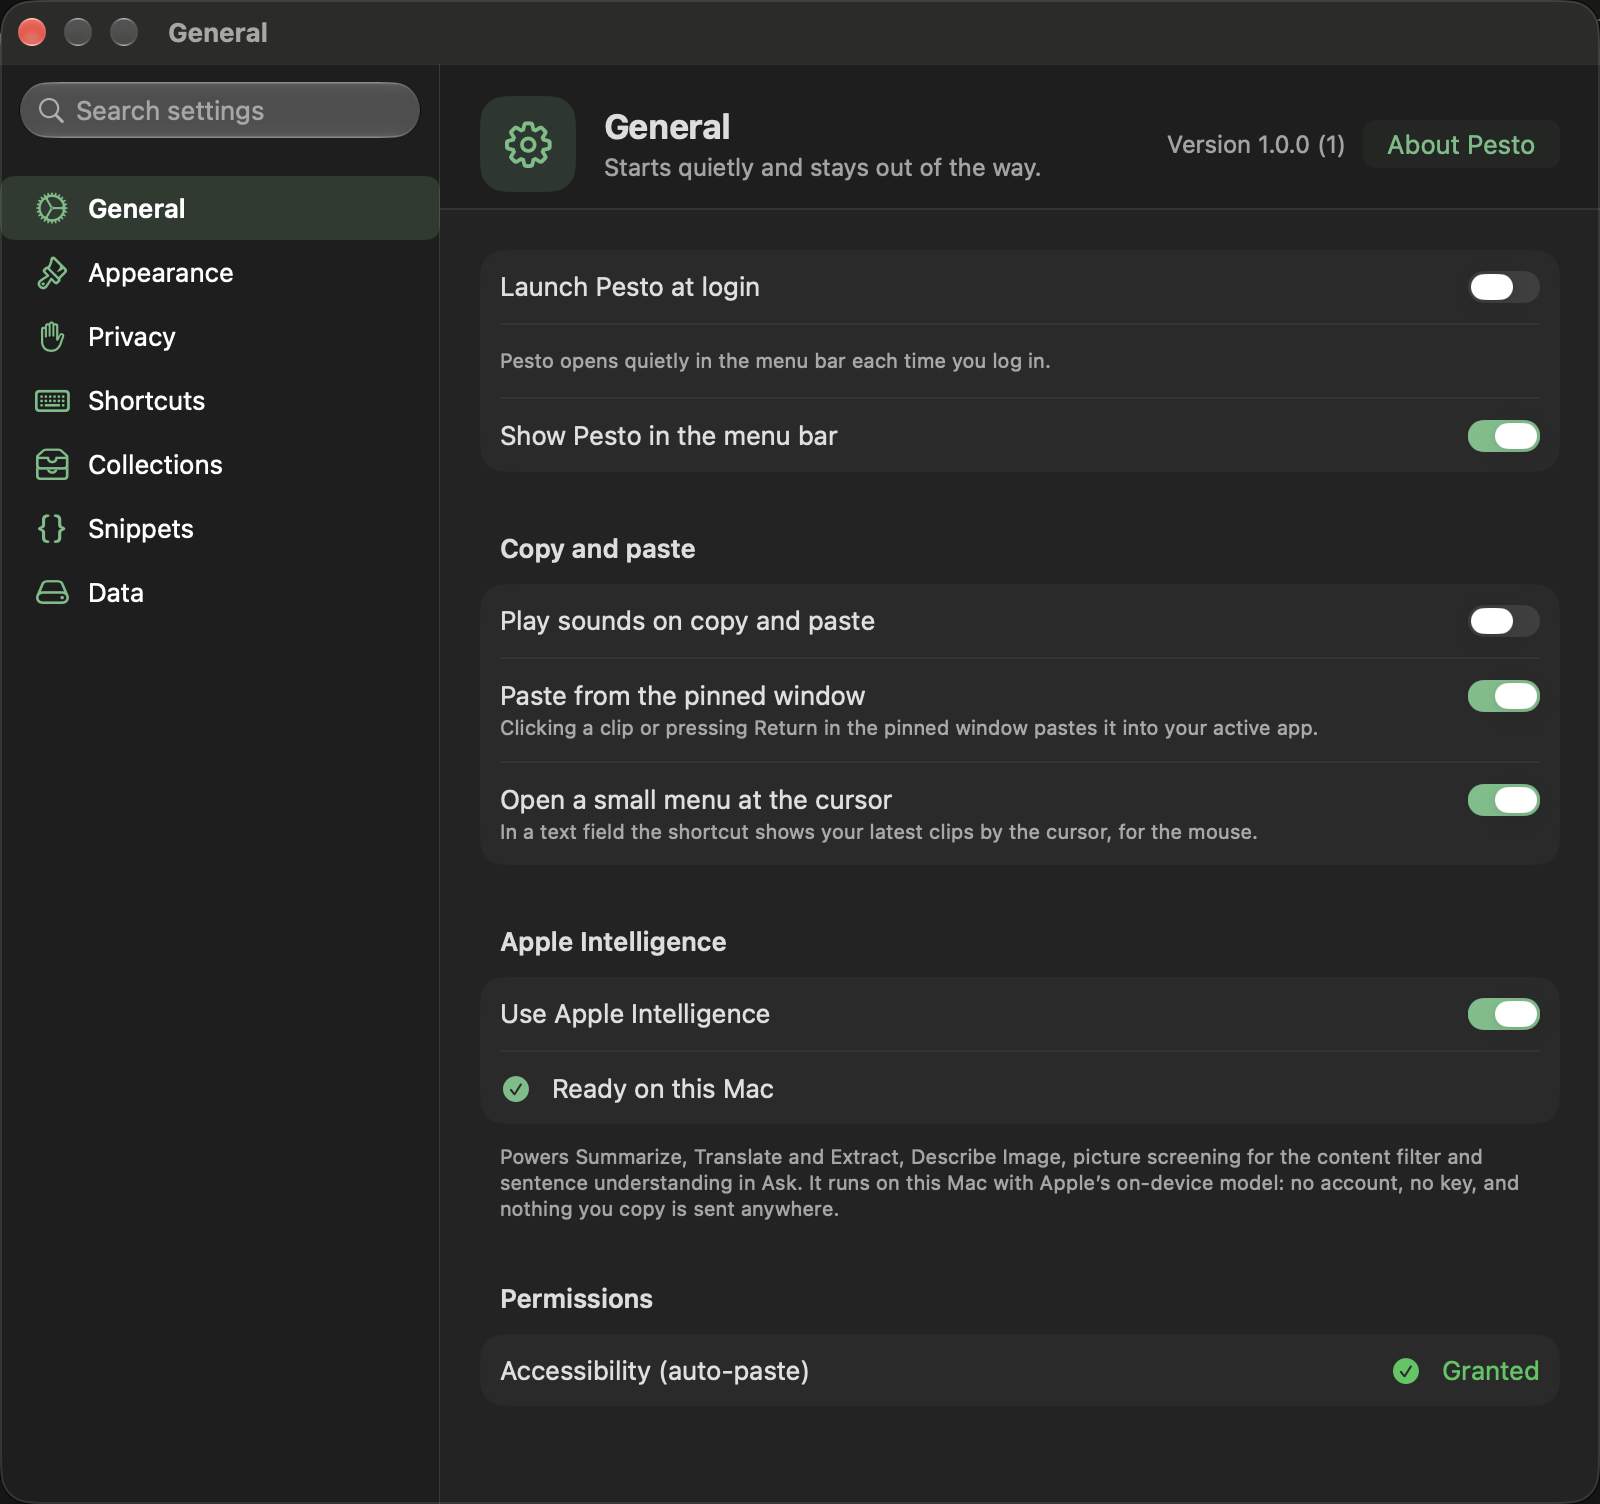
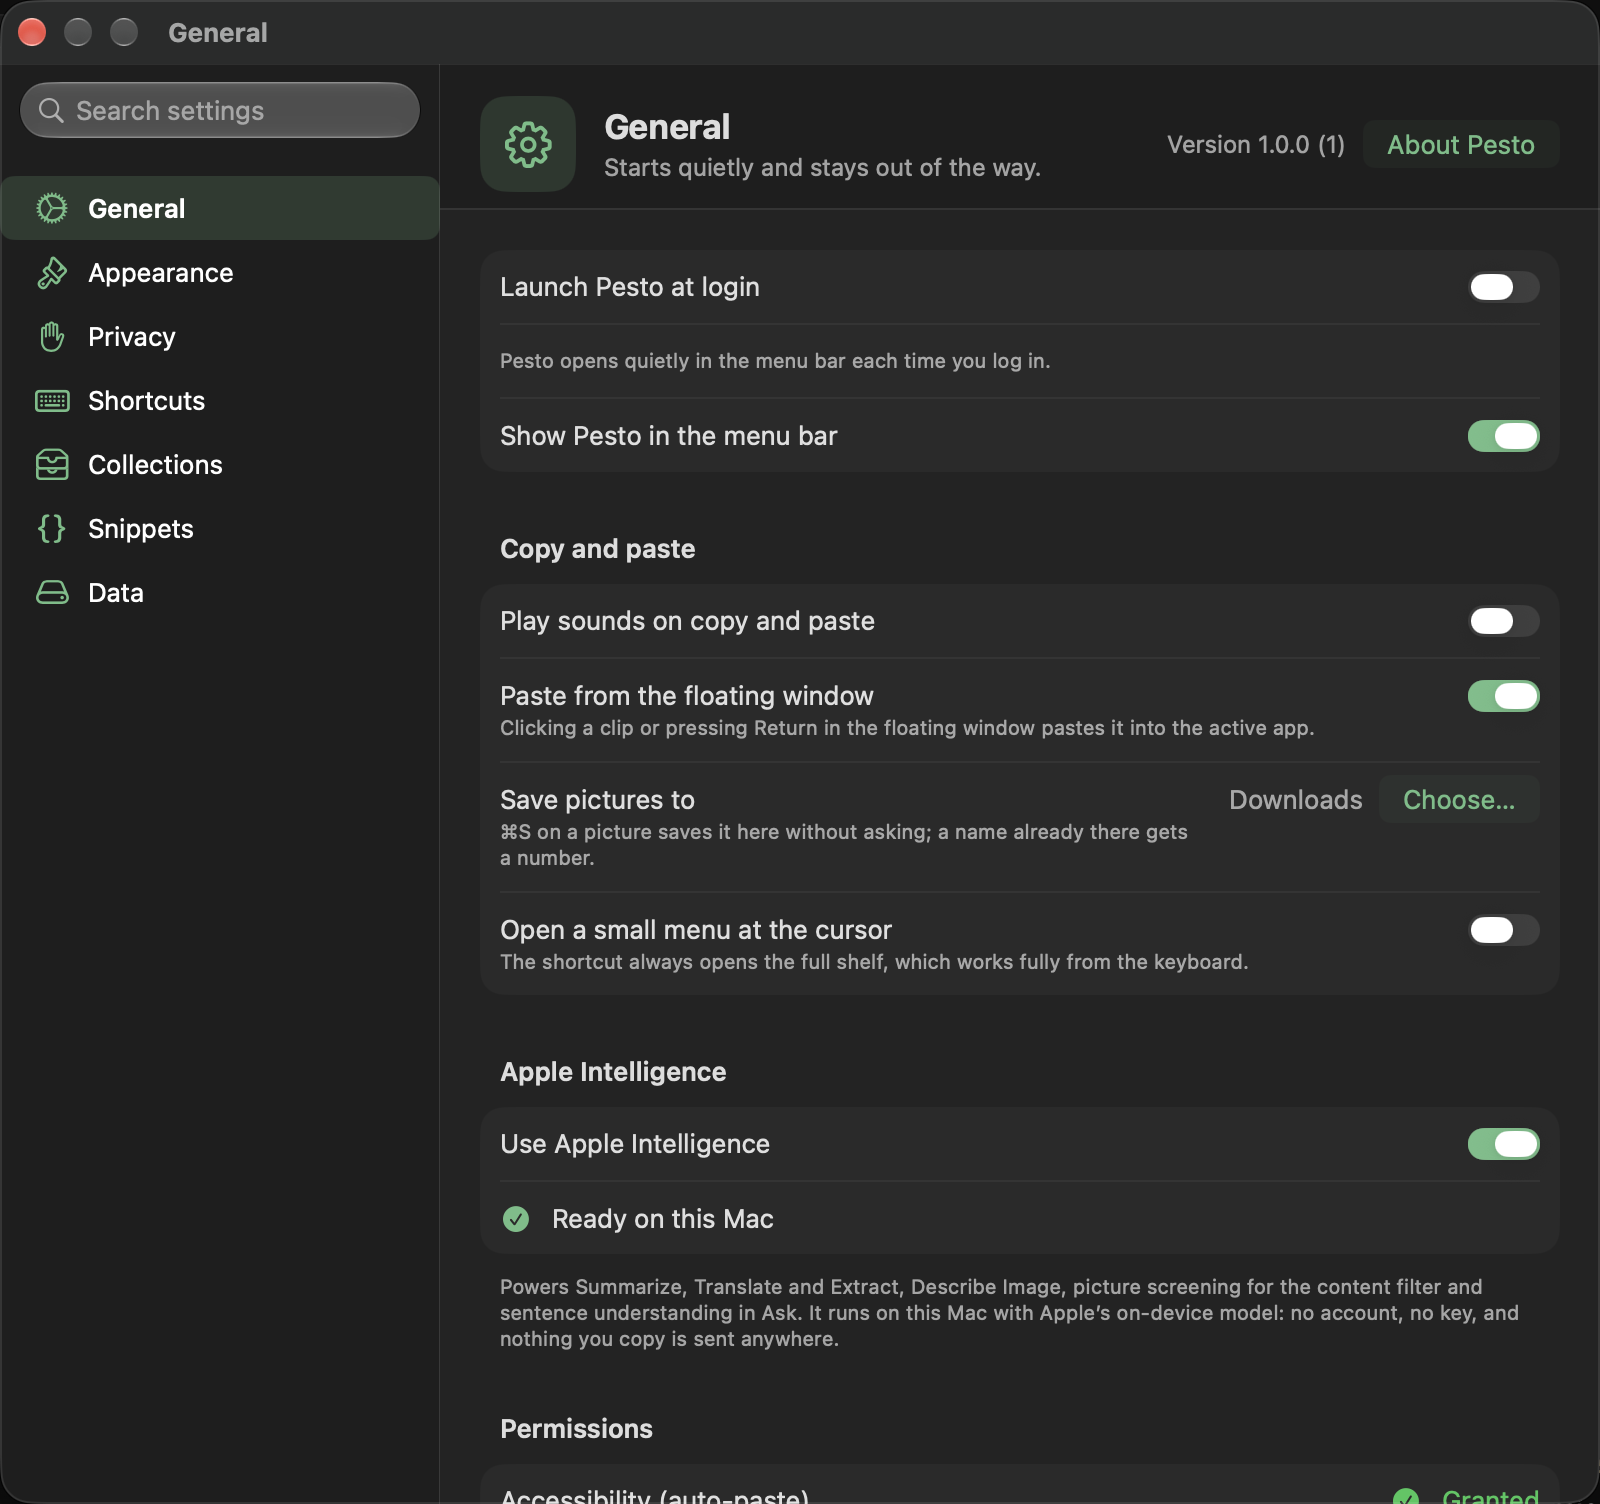
docs: update screenshots, theme light/dark pairs, and release notes

diff --git a/Tests/PestoUITests/ThemeSettingsTests.swift b/Tests/PestoUITests/ThemeSettingsTests.swift
@@ -76,16 +76,18 @@ final class ThemeAppearancePaneTests: PestoUITestCase {
 
 final class ThemeShelfTests: PestoUITestCase {
     func test_everyTheme_drawsTheShelfInLightAndDark() {
+        var isFirst = true
         for theme in ["basil", "parmesan", "pineNut", "mortar"] {
             for mode in ["light", "dark"] {
                 launch(
-                    seed: "marketing",
+                    seed: isFirst ? "marketing" : "empty",
                     defaults: [
                         "hasOnboarded": "true", "cardSize": "large", "accentColorHex": "brand",
                         "linkPreviewsEnabled": "false", "appearanceMode": mode, "appTheme": theme
                     ],
                     backdrop: "plain"
                 )
+                isFirst = false
                 showOverlay()
                 XCTAssertTrue(cards.firstMatch.waitForExistence(timeout: 10), "\(theme) \(mode)")
                 RunLoop.current.run(until: Date().addingTimeInterval(1))

diff --git a/ROADMAP.md b/ROADMAP.md
@@ -1,25 +1,24 @@
-# Roadmap
+# Pesto Roadmap
 
-This document tracks high-level product directions for Pesto across **Now**, **Next**, and **Later** horizons. It has no dates and is not a promise: items move or drop as we learn what works best on the Mac.
+What is planned for Pesto, grouped into **Now**, **Next** and **Later**. For shipped releases, see the [changelog](https://copypesto.net/releases/).
 
-For bug reports, feature requests, or contributor-ready work, see [GitHub Issues](https://github.com/MichaelRo/copypesto/issues) and [CONTRIBUTING.md](CONTRIBUTING.md). For what has already shipped, see [CHANGELOG.md](CHANGELOG.md).
+---
 
-## Now — 1.0.x Polish & Accessibility
+## Now: 1.0.x polish and accessibility
 
-- **Shelf & filter polish.** Compact app chips on the shelf that expand on hover, selection, or focus; clearer drag affordances when reordering collections; any-of app filtering across the shelf and search bar.
-- **Toast & panel contrast.** Stronger dark-mode border and surface contrast for floating notices and the on-device AI result panel over bright windows, plus an in-app notice when a manual update check finds Pesto is already up to date.
-- **VoiceOver & keyboard navigation.** Smoother VoiceOver traversal across cards and the Settings panes, and cleaner Tab navigation in the Settings search bar.
-- **Guide & import documentation.** Per-app sections in [Moving from another app](docs/guide/moving-from.md) for every supported clipboard manager.
+- **Shelf and chip bar refinements.** App chips on the shelf show only their icon at rest and open their name on hover, focus or selection; reordering collections shows one accent bar where the chip will land; choosing several apps shows clips from any of them.
+- **Floating panel contrast and dragging.** Card material across the AI result panel, status toasts, stack HUD and hover card so text stays readable over bright windows in dark mode, plus header dragging on the AI result panel.
+- **Keyboard and VoiceOver polish.** VoiceOver reads cards and the Settings panes in order, and Tab moves straight from an empty Settings search field into the pane.
+- **Update checks.** A switch in Settings → General to turn automatic update checks on or off, and a quiet menu-bar toast when a manual check finds Pesto is already up to date.
 
-## Next — Distribution & Everyday Ergonomics
+## Next: distribution and everyday use
 
-- **Developer ID signing and notarization.** Sign and notarize releases with an Apple Developer ID so Pesto opens on first launch without the *Open Anyway* step in System Settings.
-- **Ship the `pesto` CLI inside the app bundle.** Bundle the command-line tool inside `Pesto.app/Contents/MacOS/pesto` so it is available without building from source.
-- **Shelf placement options.** Optional placement of the shelf or quick menu near the active window or cursor.
-- **Markdown and code preview polish.** Richer formatting and syntax highlighting in the hover card and Quick Look preview.
+- **Apple Developer ID signing and notarization.** Signing release builds with a Developer ID certificate and notarizing with Apple so macOS opens Pesto without the first-launch Gatekeeper confirmation and keeps Keychain and Accessibility permissions across updates without re-prompting.
+- **Homebrew Cask.** Publishing an official Cask once builds are Developer ID notarized.
+- **Additional clipboard importers.** Expanding Settings → Data → Import to cover more macOS clipboard managers alongside the 11 already supported.
 
-## Later — Under Consideration
+## Later: under consideration
 
-- **End-to-end encrypted multi-device Mac sync.** Building on the encrypted backup format ([ADR 0010](decisions/0010-backup.md)) so two Macs you own can keep their shelves in step through iCloud without Pesto running a server or reading your clips.
-- **Richer snippet placeholders.** Date math, secondary clipboard references, and fill-in fields when expanding a snippet.
-- **Rule-based collection routing.** Additional predicates for smart collections while keeping the rule engine deterministic and local.
+- **End-to-end encrypted multi-device Mac sync.** Building on the encrypted backup format ([ADR 0010](decisions/0010-backup.md)) so two Macs you own can keep their shelves in step through iCloud Drive without Pesto running a server or reading your clips.
+- **Desktop widgets.** A macOS WidgetKit extension showing recent non-sensitive clips while respecting the History Lock and secret masking rules.
+- **Expanded smart collection rules.** More rules for smart collections, evaluated on your Mac.

diff --git a/docs/guide/using-pesto.md b/docs/guide/using-pesto.md
@@ -9,7 +9,7 @@ a preview, the app it came from, and when.
 A text clip shows its paragraphs, with a slim dotted gap for a blank line. When the whole clip is shown, the footer adds its size, such as "64 characters · 8 lines". A card shows 4, 5 or 6 lines at the Small, Medium and Large sizes.
 
 - **← →** move between clips, **Return** pastes the selected clip, **Esc** closes the shelf.
-- **Just start typing** to search. Search matches the first 500 characters of each clip, its title, note and tags, and the text inside pictures; search by meaning works in English.
+- **Start typing** to search. Search matches the first 500 characters of each clip, its title, note and tags, and the text inside pictures; search by meaning works in English.
 - **Space** selects a clip so you can act on several at once (for example paste them together). **⌘A** selects every clip currently shown, so you can filter first and then delete or paste them all.
 - **⌫** deletes the selected clips, or the focused one when none is selected; Return confirms and Esc keeps them.
 - **Undo.** After a delete a bar reads *Deleted 3 clips* with an **Undo** button, and **⌘Z** takes back the last delete or change; **⇧⌘Z** does it again. It covers deleting clips and collections, renaming, notes, tags, icons, moving a clip to a collection (also by dragging), pinning, paste shortcuts, the sensitive mark, a dragged card's place, creating, editing, duplicating and reordering collections, adding or editing a snippet, and an import. In *Settings* the Edit menu's *Undo* does the same, and names the action. Pesto remembers the last 20 actions, only until you lock the history, clear it or quit. *Clear History* and *Clear Everything* are final, and so is deleting a clip that expires on its own, a hidden password or a very large clip; the question before a delete says which it is.
@@ -65,7 +65,7 @@ You can also give up to nine pinned clips their own shortcut (**⌃1** to **⌃9
 - **⌘Y** toggles Quick Look for a larger view of the focused clip (text, picture, PDF, HTML or URL).
 - **Paste the previous copy** directly with a shortcut you record in *Settings → Shortcuts* (it was ⌘⌥V before; a Mac that already used Pesto keeps that).
 - **⌃⌥⌘V** pastes as plain text (if it does nothing, see *Shortcuts*: another app may own the combination).
-- **Paste As…** is in a clip's menu (**⌘K** opens it from the keyboard). It pastes the clip as plain text, or transforms it first: case conversions (lowercase, UPPERCASE, Title Case, Sentence Case, camelCase, PascalCase, Slug-Case), line sorting and deduplication, JSON formatting/minifying, Base64 encode/decode, URL encoding/decoding, tracking parameter removal, cryptographic hashes (MD5, SHA-256) and more — 26 transforms in all.
+- **Paste As…** is in a clip's menu (**⌘K** opens it from the keyboard). It pastes the clip as plain text, or transforms it first: case conversions (lowercase, UPPERCASE, Title Case, Sentence Case, camelCase, PascalCase, Slug-Case), line sorting and deduplication, JSON formatting/minifying, Base64 encode/decode, URL encoding/decoding, tracking parameter removal, cryptographic hashes (MD5, SHA-256) and more: 26 transforms in all.
 - The **cursor menu** (off by default; *Settings → General* turns it on): when you press ⌘⇧V while typing in a text field, a compact list of your last five copies opens
   next to the cursor. It is for the mouse only: arrow keys and Return go to the app you are typing in.
 - The **floating window** (the window button in the shelf's toolbar, or the menu bar) is a small copy of the shelf that stays on top. It opens on the display of the app you are working in; the shelf does too, and falls back to the display under the pointer when no app window is in front. Click a clip there to paste it (or copy it, if you turned off *Paste from the floating window*).

diff --git a/docs/guide/moving-from.md b/docs/guide/moving-from.md
@@ -45,25 +45,25 @@ The import tells you how many clips came in and how many were left out.
 *Settings → Data → Another app's library → Import… → From Alfred…* opens Alfred's clipboard database (the file chooser starts in its folder) and reads a copy of it read-only. Before anything comes in, the preview sheet shows what was found and you confirm. Alfred's text and file paths come over; its pictures are skipped. Clips you already have are skipped, and Pesto's exclusion rules apply as for any copy.
 
 ## Moving from other clipboard apps
-*Settings → Data → Another app's library → Import…* also supports direct import from CleanClip, PasteNow, CopyClip, PastePal, Pastebot, Clipy, Flycut, and Unclutter. For each app, the file chooser opens in the default folder. Pesto works on a copy, opens it read-only, and never modifies the original. Before anything is imported, a preview sheet displays what was found (pinned clips, history, and skipped clips) for confirmation.
+*Settings → Data → Another app's library → Import…* also supports direct import from CleanClip, PasteNow, CopyClip, PastePal, Pastebot, Clipy, Flycut, and Unclutter. For each app, the file chooser starts in its default folder. Pesto reads a copy of the file, read-only, and leaves the original alone. Before anything comes in, a sheet shows what was found (pinned clips, history and skipped clips) and you confirm.
 
 ### CleanClip
-Clips from CleanClip's history are imported, preserving titles and source apps. Pinned clips become a collection.
+Brings in CleanClip's history with its titles and source apps. Pinned clips become a collection.
 
 ### PasteNow
-Text, rich text, and URLs are imported. Pastelist categories are mapped to collections.
+Brings in text, rich text and links. Each Pastelist category becomes a collection.
 
 ### CopyClip
-History is imported from CopyClip's SQLite database as plain text clips.
+Reads CopyClip's database as plain-text clips.
 
 ### PastePal
-History from PastePal's Core Data store is imported, and pinned clips become a collection named "Pinned in PastePal".
+Reads PastePal's store; pinned clips go to a collection called "Pinned in PastePal".
 
 ### Pastebot
-Text, rich text, and source apps are read from Pastebot's Core Data store.
+Reads text, rich text and source apps from Pastebot's store.
 
 ### Clipy
-Clips are imported from Clipy's SQLite database.
+Reads clips from Clipy's database.
 
 ### Flycut
 Clips are read from Flycut's preferences file. Its favorites go to a collection called "Favorites in Flycut".
@@ -75,7 +75,7 @@ Clips and favorites are read from Unclutter's storage folder.
 Raycast encrypts its local clipboard database with SQLCipher using a key stored in your login Keychain, so Pesto cannot read its database directly. You can import Raycast snippets via JSON export: see *Moving snippets from another app* below.
 
 ## Moving anything else
-Try *Other File…* first (see above). If your app's export does not fit, Pesto also reads the JSON that its own *Export History* writes, so a script can build one. The file is an array of records:
+Try *Other File…* first (see above). If your app's export does not fit, Pesto also reads the JSON that its own *Export History* writes, so a script can build one. The file is a JSON array of clips:
 
 ```json
 [

diff --git a/README.md b/README.md
@@ -105,10 +105,22 @@ The full list of what is stored and sent, including what encryption does *not* p
 The shelf in each theme: Basil, Parmesan, Pine nut and Mortar.
 
 <p align="center">
-  <img alt="The shelf in the Basil theme" src="docs/images/theme-basil.png" width="49%">
-  <img alt="The shelf in the Parmesan theme" src="docs/images/theme-parmesan.png" width="49%">
-  <img alt="The shelf in the Pine nut theme" src="docs/images/theme-pine-nut.png" width="49%">
-  <img alt="The shelf in the Mortar theme" src="docs/images/theme-mortar.png" width="49%">
+  <picture>
+    <source media="(prefers-color-scheme: dark)" srcset="docs/images/theme-basil-dark.png">
+    <img alt="The shelf in the Basil theme" src="docs/images/theme-basil-light.png" width="49%">
+  </picture>
+  <picture>
+    <source media="(prefers-color-scheme: dark)" srcset="docs/images/theme-parmesan-dark.png">
+    <img alt="The shelf in the Parmesan theme" src="docs/images/theme-parmesan-light.png" width="49%">
+  </picture>
+  <picture>
+    <source media="(prefers-color-scheme: dark)" srcset="docs/images/theme-pine-nut-dark.png">
+    <img alt="The shelf in the Pine nut theme" src="docs/images/theme-pine-nut-light.png" width="49%">
+  </picture>
+  <picture>
+    <source media="(prefers-color-scheme: dark)" srcset="docs/images/theme-mortar-dark.png">
+    <img alt="The shelf in the Mortar theme" src="docs/images/theme-mortar-light.png" width="49%">
+  </picture>
 </p>
 
 
@@ -154,7 +166,7 @@ Architecture, how to build and test it, the security invariants and the project'
 [docs/development.md](docs/development.md) and [CONTRIBUTING.md](CONTRIBUTING.md). Every important decision has an
 [ADR](decisions/). Planned directions live in [ROADMAP.md](ROADMAP.md). Security reports: [SECURITY.md](SECURITY.md). Help: [SUPPORT.md](SUPPORT.md).
 
-Pesto is built with AI coding assistants (Claude and Gemini) alongside human design, architecture decisions ([decisions/](decisions/)), and an automated test and verification suite that enforces the project's security and privacy invariants.
+Pesto is written with AI coding tools (Claude and Gemini) under human design, architecture records ([decisions/](decisions/)) and a verification suite that checks the security and privacy rules on every change.
 
 ## Support
 

diff --git a/docs/guide/settings.md b/docs/guide/settings.md
@@ -41,8 +41,8 @@ two look alike and every one keeps its text and accent readable in light and dar
 with one icon for each theme, named after it and in the same order: Basil, Parmesan, Pine nut and Mortar. The icon's ground carries the theme and its P is the theme's accent. It shows in the Dock and the app switcher while a Pesto window is open; Finder and
 Launchpad keep the default Basil icon, because changing the icon of the installed app would break its code signature.
 
-![The shelf in the Parmesan theme: a warm cream wash and a gold accent.](../images/theme-parmesan.png)
-![The shelf in the Mortar theme, in dark mode.](../images/theme-mortar.png)
+![The shelf in the Parmesan theme: a warm cream wash and a gold accent.](../images/theme-parmesan-light.png)
+![The shelf in the Mortar theme: cool stone and a sage accent.](../images/theme-mortar-light.png)
 
 **Cards:** one slider, with ticks at Small, Medium and Large (160 to 240 points wide; letting go near a tick lands on
 it). The text on a card grows and shrinks with it. **Light and dark:** light, dark or follow the system, each shown in the current theme. **Accent color:** the
